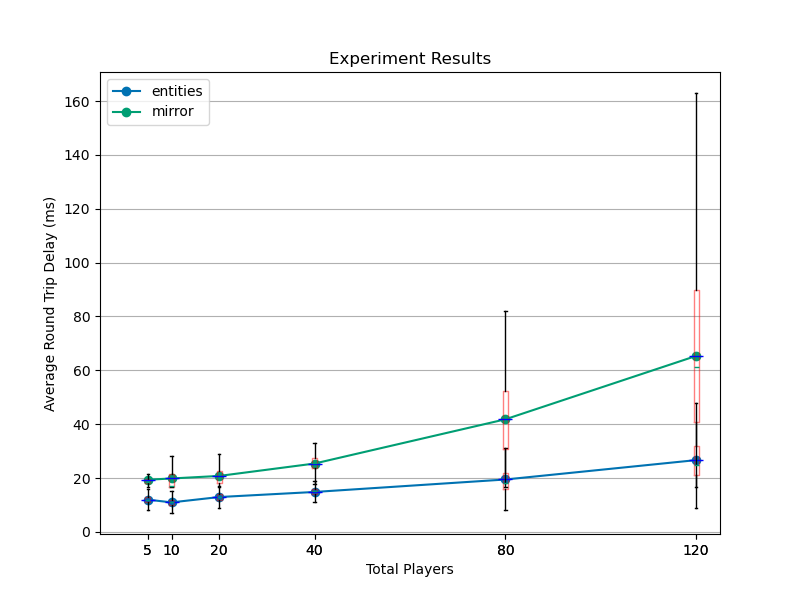
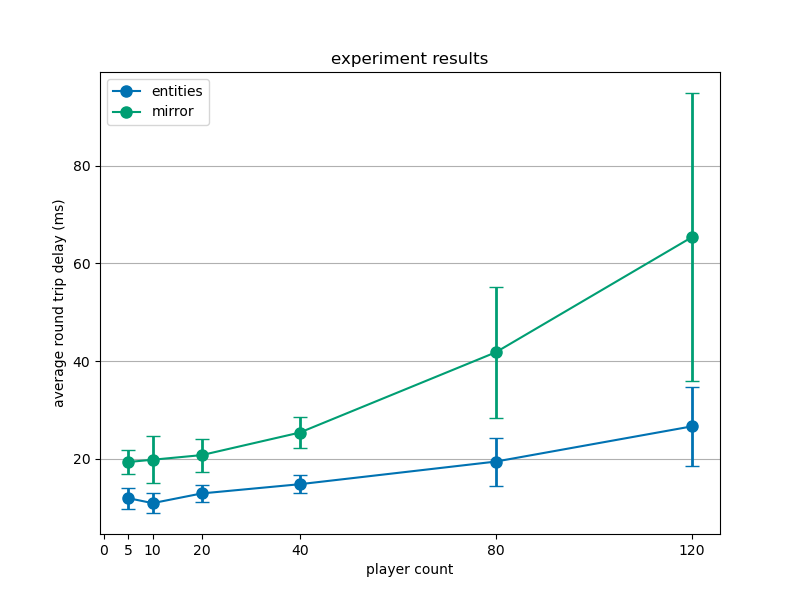
added two more plots for system and finished plot styling

diff --git a/plot_results.py b/plot_results.py
@@ -1,6 +1,7 @@
 import os
 import csv
 import matplotlib.pyplot as plt
+import numpy as np
 
 plt.style.use('seaborn-v0_8-colorblind')
 
@@ -24,27 +25,23 @@ def plot_results(data, output_folder):
         round_trip_delay = values['RoundTripDelay_ms']
         unique_players = sorted(set(total_players))
         avg_delay = [sum(round_trip_delay[i] for i, player_count in enumerate(total_players) if player_count == players) / total_players.count(players) for players in unique_players]
-        plt.plot(unique_players, avg_delay, marker='o', label=experiment_name)
+        line = plt.plot(unique_players, avg_delay, marker='o', label=experiment_name, markersize=8)[0]  # Change markersize to adjust the size of the shapes
 
-        # Create box plots for each Total_Players value
-        for players in unique_players:
-            delays = [round_trip_delay[i] for i, player_count in enumerate(total_players) if player_count == players]
-            # Plot box plot with red color and half transparency
-            plt.boxplot(delays, positions=[players], widths=1, showfliers=False, patch_artist=False, boxprops=dict(color='red', alpha=0.5))
-            # Plot line connecting means
-            plt.plot(players, sum(delays) / len(delays), marker='_', markersize=10, color='blue')
+        # Calculate error bars for standard deviation
+        error = [np.std([round_trip_delay[i] for i, player_count in enumerate(total_players) if player_count == players]) for players in unique_players]
 
-    plt.xlabel('Total Players')
-    plt.ylabel('Average Round Trip Delay (ms)')
-    plt.title('Experiment Results')
+        # Plot error bars with the same color as the lines
+        plt.errorbar(unique_players, avg_delay, yerr=error, fmt='none', ecolor=line.get_color(), capsize=5, elinewidth=2)  # Adjust elinewidth to make the lines thicker
+
+    plt.xlabel('player count')
+    plt.ylabel('average round trip delay (ms)')
+    plt.title('experiment results')
     plt.legend(loc='upper left')
-    plt.grid(True, axis='y')  # Only horizontal grid
-    plt.gca().yaxis.grid(True)  # Force horizontal grid
+    plt.grid(True, axis='y') 
+    plt.gca().yaxis.grid(True) 
 
-    # Set x-axis limits with padding
-    plt.xlim(-5, max(unique_players) + 5)
+    plt.xticks([0, 5, 10, 20, 40, 80, 120])  # Set the ticks on the x-axis
 
-    # Create the output folder if it doesn't exist
     os.makedirs(output_folder, exist_ok=True)
     
     # Save the plot as an image in the output folder

diff --git a/plot_mem_system.py b/plot_mem_system.py
@@ -1,0 +1,63 @@
+import os
+import numpy as np
+import matplotlib.pyplot as plt
+
+plt.style.use('seaborn-v0_8-colorblind')
+
+def parse_log_file(file_path):
+    memory_usage = []
+    with open(file_path, 'r') as file:
+        for line in file:
+            metrics = line.strip().split('\t')[1:]
+            for metric in metrics:
+                if metric.startswith('proc.memory.percent='):
+                    memory_usage.append(float(metric.split('=')[1]))
+    return memory_usage
+
+def process_logs(folder_path):
+    experiments = {}
+    frameworks = ['entities', 'mirror']
+    for framework in frameworks:
+        experiments[framework] = {}
+        for i in range(1, 7):
+            log_file = os.path.join(folder_path, framework, f'system_log_{i}.log')
+            experiments[framework][f'exp_{i}'] = parse_log_file(log_file)
+    return experiments
+
+def plot_mean_memory_usage(experiments):
+    durations = [5, 10, 20, 40, 80, 120]
+    entities_means = []
+    mirror_means = []
+
+    for duration in durations:
+        entities_data = []
+        mirror_data = []
+        for i in range(1, 7):
+            entities_data.extend(experiments['entities'][f'exp_{i}'][:duration])
+            mirror_data.extend(experiments['mirror'][f'exp_{i}'][:duration])
+        entities_mean = np.mean(entities_data)
+        mirror_mean = np.mean(mirror_data)
+        entities_means.append(entities_mean)
+        mirror_means.append(mirror_mean)
+
+    x = np.arange(len(durations))
+    width = 0.35
+
+    fig, ax = plt.subplots()
+
+    bars1 = ax.bar(x - width/2, entities_means, width, label='entities')
+    bars2 = ax.bar(x + width/2, mirror_means, width, label='mirror')
+
+    ax.set_xlabel('player count')
+    ax.set_ylabel('average memory usage (%)')
+    ax.set_title('system average memory usage prototype vs player count')
+    ax.set_xticks(x)
+    ax.set_xticklabels(durations)
+    ax.legend(framealpha=0)
+    plt.savefig('plots/mean_memory_usage.png')
+    plt.show()
+
+if __name__ == "__main__":
+    folder_path = "system_logs"
+    experiments = process_logs(folder_path)
+    plot_mean_memory_usage(experiments)

diff --git a/plot_cpu_system.py b/plot_cpu_system.py
@@ -1,0 +1,64 @@
+import os
+import numpy as np
+import matplotlib.pyplot as plt
+
+plt.style.use('seaborn-v0_8-colorblind')
+
+def parse_log_file(file_path):
+    cpu_usage = []
+    with open(file_path, 'r') as file:
+        for line in file:
+            metrics = line.strip().split('\t')[1:]
+            for metric in metrics:
+                if metric.startswith('proc.cpu.user='):
+                    cpu_usage.append(float(metric.split('=')[1]))
+    return cpu_usage
+
+def process_logs(folder_path):
+    experiments = {}
+    frameworks = ['entities', 'mirror']
+    for framework in frameworks:
+        experiments[framework] = {}
+        for i in range(1, 7):
+            log_file = os.path.join(folder_path, framework, f'system_log_{i}.log')
+            experiments[framework][f'exp_{i}'] = parse_log_file(log_file)
+    return experiments
+
+def plot_mean_cpu_usage(experiments):
+    durations = [5, 10, 20, 40, 80, 120]
+    entities_means = []
+    mirror_means = []
+
+    for duration in durations:
+        entities_data = []
+        mirror_data = []
+        for i in range(1, 7):
+            entities_data.extend(experiments['entities'][f'exp_{i}'][:duration])
+            mirror_data.extend(experiments['mirror'][f'exp_{i}'][:duration])
+        entities_mean = np.mean(entities_data)
+        mirror_mean = np.mean(mirror_data)
+        entities_means.append(entities_mean)
+        mirror_means.append(mirror_mean)
+
+    x = np.arange(len(durations))
+    width = 0.35
+
+    fig, ax = plt.subplots()
+
+    bars1 = ax.bar(x - width/2, entities_means, width, label='entities')
+    bars2 = ax.bar(x + width/2, mirror_means, width, label='mirror')
+
+    ax.set_xlabel('player count')
+    ax.set_ylabel('average CPU usage')
+    ax.set_title('system CPU usage prototype vs player count')
+    ax.set_xticks(x)
+    ax.set_xticklabels(durations)
+    ax.legend(framealpha=0)
+
+    plt.savefig('plots/mean_cpu_usage.png')
+    plt.show()
+
+if __name__ == "__main__":
+    folder_path = "system_logs"
+    experiments = process_logs(folder_path)
+    plot_mean_cpu_usage(experiments)
